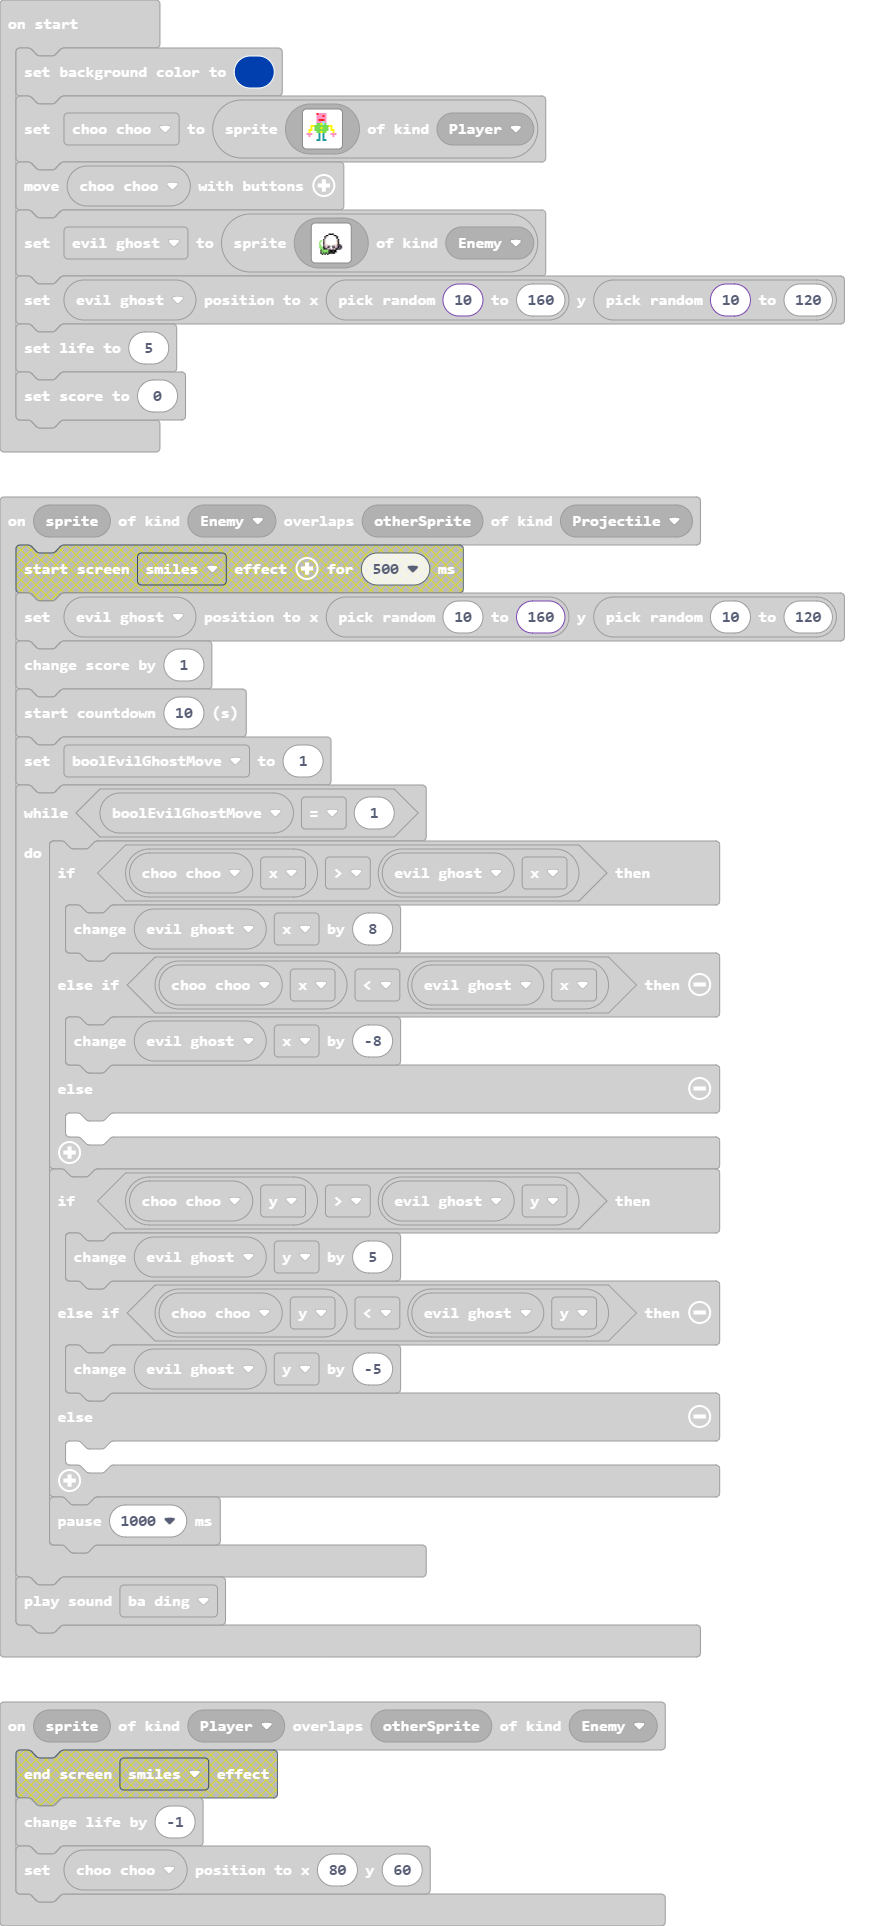
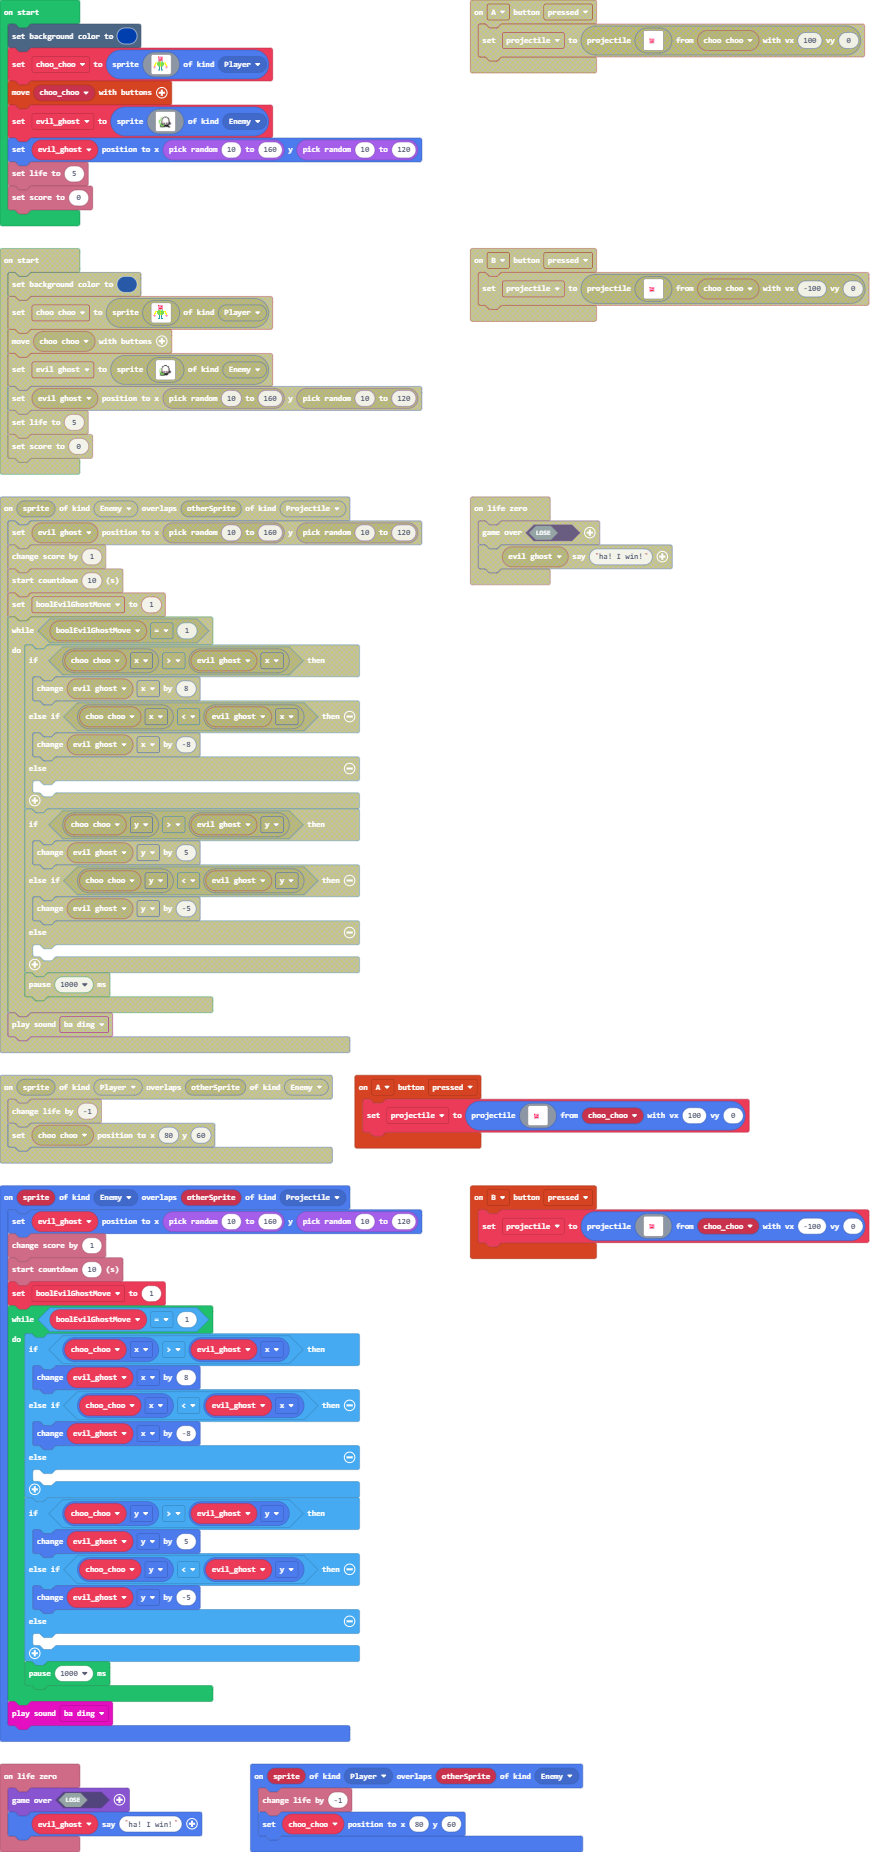
I made the ghost look like he has more energy coming from him.

diff --git a/main.ts b/main.ts
@@ -104,22 +104,22 @@ evil_ghost = sprites.create(img`
     ........................
     ........................
     ........................
-    ..........ffff..........
-    ........ff1111ff........
-    .......fb111111bf.......
-    .......f11111111f.......
-    ......fd11111111df......
+    ......7...ffff..........
+    .....7..ff1111ff........
+    .....7.fb111111bf.......
+    ....7..f11111111f.......
     ....7.fd11111111df......
-    ...7..fd11111111df......
-    ...7..fd11111111df......
-    ...7..fddd1111dddff.....
+    ..777.fd11111111df......
+    ..77..fd11111111df......
+    ..77..fd11111111df......
+    ..77..fddd1111dddff.....
     ...77.fbdbfddfbdbfcf....
     ...777fcdcf11fcdcfbf....
     ....77fffbdb1bdffcf.....
     ....f77777ffffff........
-    ....f77777ffffff........
-    ....f7f7f7fffff.........
-    .....f.f.f..............
+    ....f77777fffffff.......
+    ....f7f7f7ffffffff......
+    .....f.f.f......fff.....
     ........................
     ........................
     ........................
